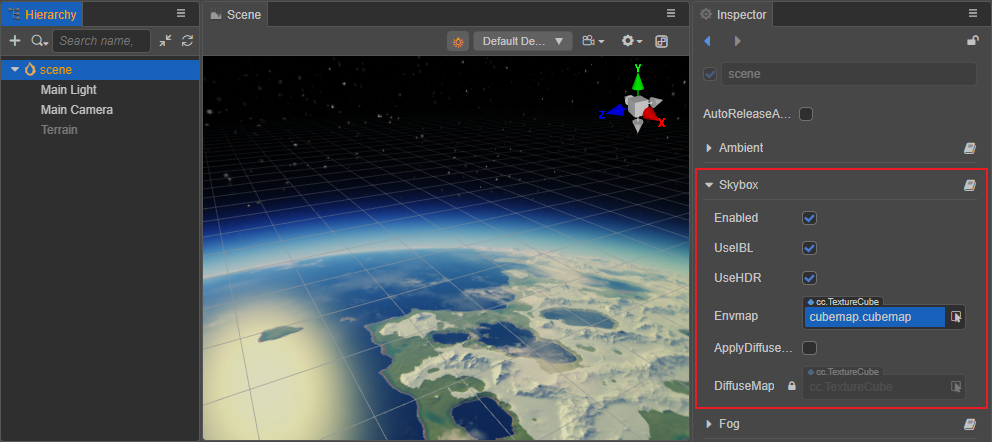
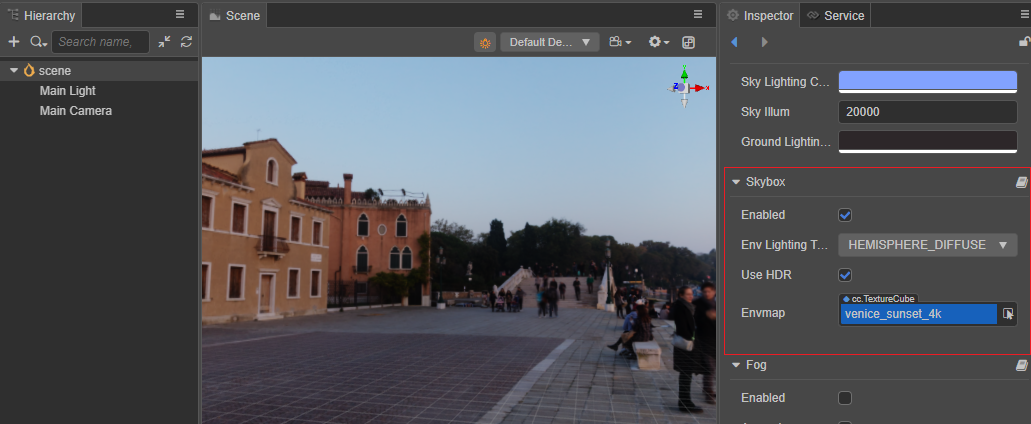
skybox

diff --git a/zh/concepts/scene/skybox.md b/zh/concepts/scene/skybox.md
@@ -13,15 +13,16 @@ Skybox 组件属性如下：
 | 属性 | 说明 |
 | :---| :--- |
 | **Enabled** | 勾选该项即可开启天空盒 |
-| **UseIBL** | 是否使用环境光照，详情请参考下文 **使用 IBL** 部分的内容。 |
+| **Env Lighting Type** | 环境光类型，请参考下文 **漫反射照明** 获取更多参考 |
 | **UseHDR** | 若勾选该项则开启 HDR（高动态范围），若不勾选该项，则使用 LDR（低动态范围）。详情请参考下文 **切换 HDR/LDR 模式** 部分的内容。 |
-| **Envmap** | 天空盒的环境贴图，TextureCube 类型，具体设置方法可参考下文介绍。<br>当该属性为空时，天空盒默认使用和显示的是像素贴图 |
-| **ApplyDiffuseMap** | 若勾选该项，场景物体将使用更精确的漫反射图来取代默认的半球光照。该项仅在勾选 **UseIBL** 后显示。详情请参考下文 **漫反射照明** 部分的内容。 |
-| **DiffuseMap**      | 勾选 **ApplyDiffuseMap** 属性后，自动生成的用于高级漫反射的卷积图，不支持手动编辑。该项仅在勾选 **UseIBL** 后显示。 |
+| **Envmap** | 天空盒的环境贴图，[TextureCube](../../asset/texture-cube.md) 类型，具体设置方法可参考下文介绍。<br>当该属性为空时，天空盒默认使用和显示的是像素贴图 |
+| **DiffuseMap**      | 自动生成的用于高级漫反射的卷积图，不支持手动编辑。<br> 该选项只在 **Env Lighting Type** 为 **DIFFUSEMAP_WITH_REFLECTION** 时生效 |
 
 ## 设置天空盒的环境贴图
 
 开启天空盒之后还需要设置天空盒的环境贴图，用于在场景中产生环境光照。将贴图资源拖拽到 Skybox 组件的 **Envmap** 属性框中，或者点击 **Envmap** 属性框后面的箭头按钮选择所需的贴图资源即可。若不设置，则天空盒默认使用和显示的是像素贴图。
+
+![envmap](skybox/envmap.png)
 
 天空盒的环境贴图资源支持：
 
@@ -48,6 +49,12 @@ Skybox 组件属性如下：
     ![设置天空盒的环境贴图](skybox/set-envmap.png)
 
 这样子就设置完成了，开发者可以直接在 **场景编辑器** 中看到设置后的天空盒的环境贴图。若贴图没有正确显示，需要检查 **SkyIllum 参数** 的值是否太低，或者 **修改 Camera 的 Clear Flag**。
+
+### 使用引擎内置的资源
+
+在 **资源管理器 -> internal** 目录下，引擎提供了部分内置的 TextureCube 资源，开发者也可以根据上述步骤按需使用。
+
+![builtin skybox](skybox/builtin.png)
 
 #### SkyIllum 参数
 
@@ -86,23 +93,31 @@ Skybox 组件属性如下：
     > 1. CubeMap 中未设置贴图的属性框将使用默认资源进行填充。
     > 2. CubeMap 中的 6 个属性框 **不要使用同一张贴图**，否则会导致某些平台无法正常显示。
 
-## 使用 IBL
-
-若勾选 **UseIBL** 属性，则场景中的物体使用的是天空盒产生的环境照明的镜面反射，同时允许使用更精确的漫反射照明（卷积图）。
-
-若禁用 **UseIBL** 属性，则场景中的物体只能使用半球光方式的漫反射照明。
-
 ### 漫反射照明
 
-Creator 支持以下两种方式的环境漫反射照明，可通过是否勾选 **ApplyDiffuseMap** 属性来切换使用，需要注意的是该属性仅在勾选 **UseIBL** 后显示。
+Creator 支持以下三种方式的环境漫反射照明，可以在 **Env Lighting Type** 属性的下拉列表中进行选择。
 
-1. **半球光**：不勾选 **ApplyDiffuseMap** 属性时，使用半球光漫反射。该方式由 **Ambient** 组件中的 **SkyLightingColor** 和 **GroundLightingColor** 属性控制，渲染性能更高，但是细节度不够，照明方向性差。**可手动调节，但可能会和环境贴图变得不统一**。
+![type](skybox/sky-box-type.png)
 
-    ![ambient-diffuse](skybox/ambient-diffuse.png)
+其类型与描述如下所示：
 
-2. **卷积图**：勾选 **ApplyDiffuseMap** 属性时，使用卷积图漫反射。该方式是高级漫反射，可以正确表达环境贴图产生的漫反射照明，有较好的照明方向性和细节。但 **DiffuseMap** 属性中的卷积图是自动生成来进行漫反射的，不允许手动编辑。
+| 类型 | 描述 |
+| :-- | :-- |
+| **HEMISPHERE_DIFFUSE** | 半球漫反射 |
+| **AUTOGEN_HEMISPHERE_DIFFUSE_WITH_REFLECTION** | 半球漫反射和环境反射 |
+| **DIFFUSEMAP_WITH_REFLECTION** | 漫反射卷积图和环境反射 |
 
-    ![apply-diffuseMap](skybox/diffusemap-prop.png)
+1. **半球漫反射**：当 **Env Lighting Type** 属性为 **HEMISPHERE_DIFFUSE** 时，使用半球光漫反射。该方式由 **Ambient** 组件中的 **SkyLightingColor** 和 **GroundLightingColor** 属性控制，渲染性能更高，但是细节度不够，照明方向性差。**可手动调节，但可能会和环境贴图变得不统一**。
+
+    ![ambient-diffuse](skybox/hemisphere.png)
+
+2. **半球漫反射和环境反射**：当 **Env Lighting Type** 属性为 **AUTOGEN_HEMISPHERE_DIFFUSE_WITH_REFLECTION** 时，该方式可以通过 **Ambient** 组件中的 **SkyLightingColor** 和 **GroundLightingColor** 属性控制漫反射。同时也会正确表达环境贴图所产生的漫反射效果。
+
+    ![autogen-hemisphere](skybox/autogen-hemisphere.png)
+
+3. **漫反射卷积图和环境反射**：当 **Env Lighting Type** 属性为 **DIFFUSEMAP_WITH_REFLECTION** 时，使用卷积图漫反射。该方式是高级漫反射，可以正确表达环境贴图产生的漫反射照明，有较好的照明方向性和细节。但和 **AUTOGEN_HEMISPHERE_DIFFUSE_WITH_REFLECTION** 不同的是漫反射是由自动生成的卷积图来表达的，不允许编辑。
+
+    ![apply-diffuseMap](skybox/diffuse-map-with-reflection.png)
 
 当使用半球光漫反射时，效果如下：
 
@@ -119,7 +134,7 @@ Creator 支持以下两种方式的环境漫反射照明，可通过是否勾选
 > **注意**：
 >
 > 1. 当更换 **Envmap** 属性中的环境贴图时，Creator 会自动计算对应的环境光照信息，以及漫反射光照（仅支持图片文件形式的 CubeMap，不包括手动制作的 CubeMap）
-> 2. 勾选了 UseIBL 属性，但不勾选 ApplyDiffuseMap，使用的是半球光漫反射，效果与不勾选 UseIBL 是一样的。
+> 2. 当 **Env Lighting Type** 属性为 **AUTOGEN_HEMISPHERE_DIFFUSE_WITH_REFLECTION** 时，在不调整 **Ambient** 时，其光照效果和 **DIFFUSEMAP_WITH_REFLECTION** 是一样的。
 
 ## 切换 HDR/LDR 模式
 
